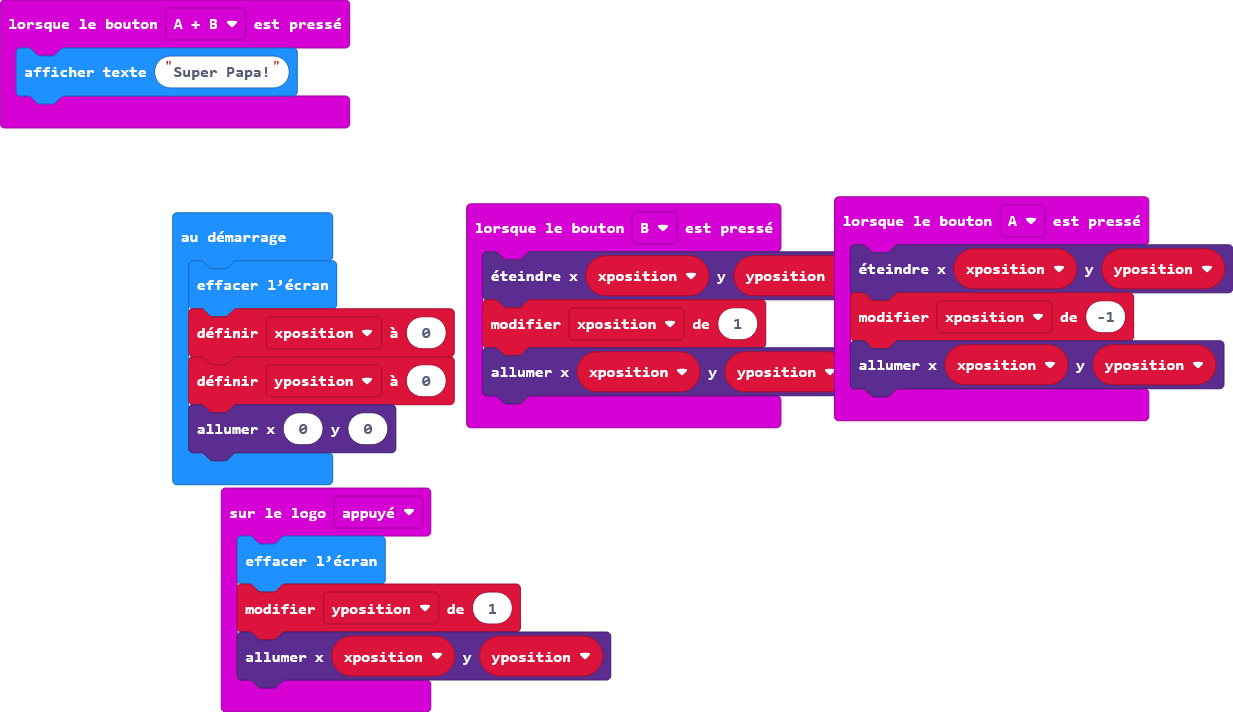
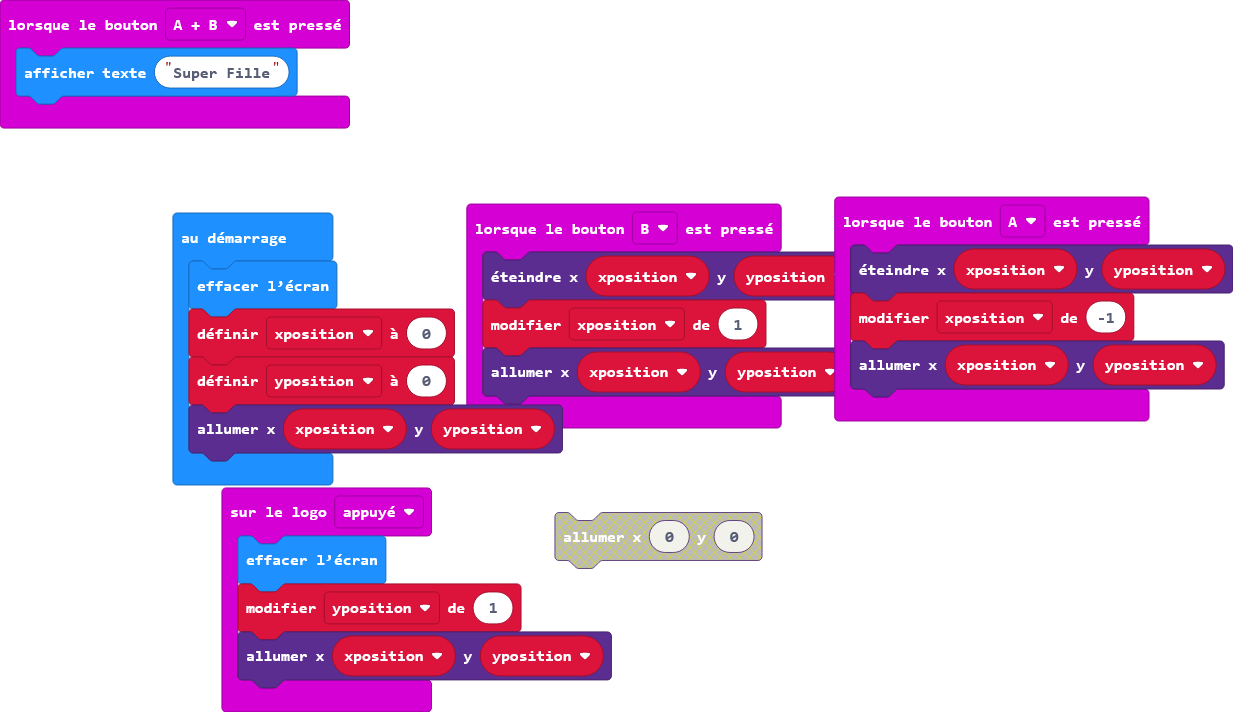
Mise à jour main.blocks, main.ts

diff --git a/main.ts b/main.ts
@@ -4,7 +4,7 @@ input.onButtonPressed(Button.A, function () {
     led.plot(xposition, yposition)
 })
 input.onButtonPressed(Button.AB, function () {
-    basic.showString("Super Papa!")
+    basic.showString("Super Fille")
 })
 input.onButtonPressed(Button.B, function () {
     led.unplot(xposition, yposition)
@@ -21,4 +21,4 @@ let xposition = 0
 basic.clearScreen()
 xposition = 0
 yposition = 0
-led.plot(0, 0)
+led.plot(xposition, yposition)
